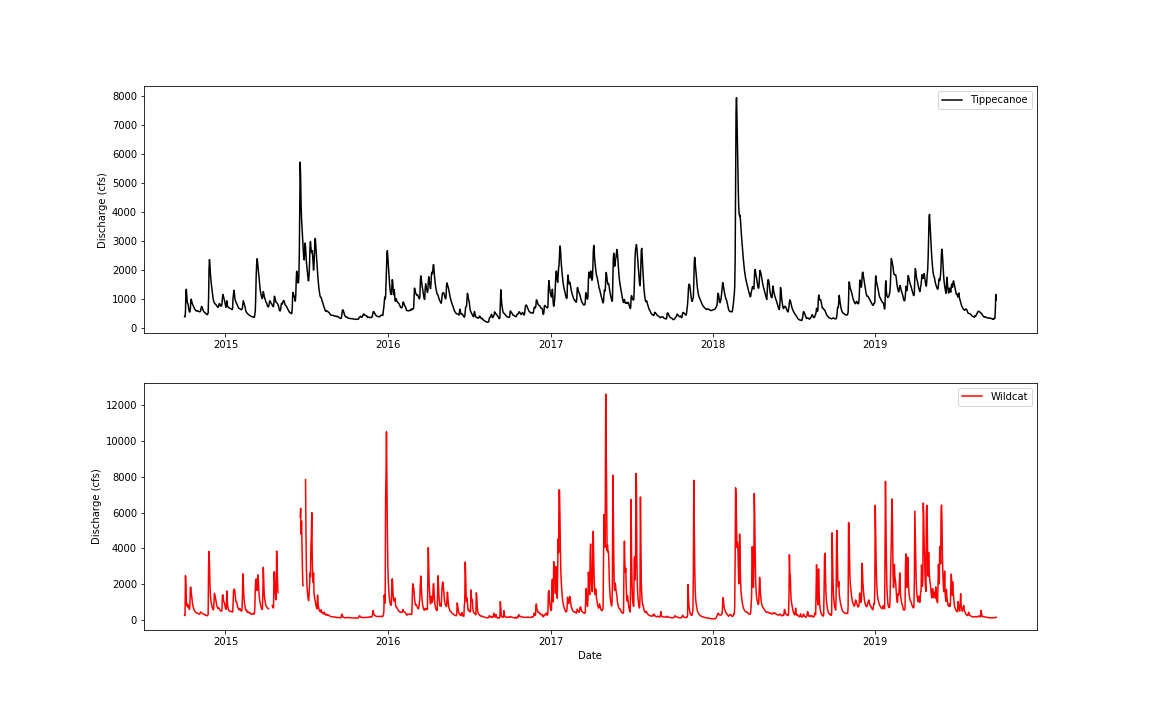
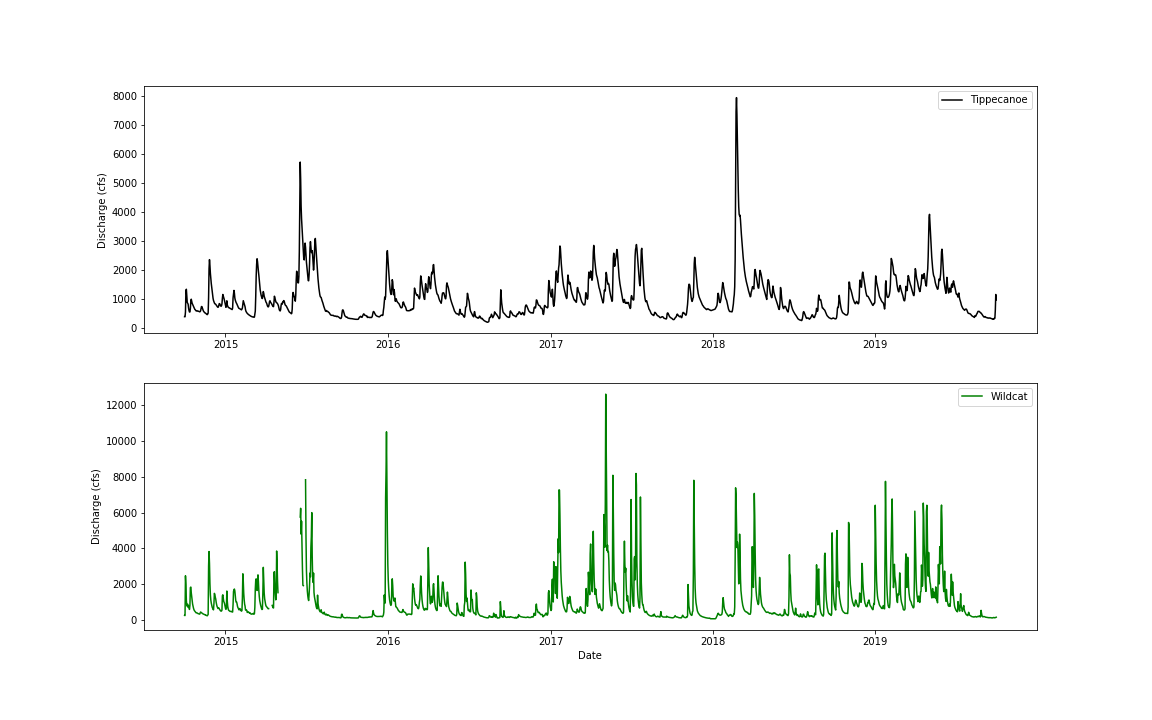
fixed exceedence

diff --git a/program_11.py b/program_11.py
@@ -142,7 +142,7 @@ if __name__ == '__main__':
     plt.ylabel('Discharge (cfs)')
     plt.legend(loc='upper right')
     plt.subplot(212)
-    plt.plot(Wildcat5Y.index,Wildcat5Y['Discharge'], 'red',label = 'Wildcat')
+    plt.plot(Wildcat5Y.index,Wildcat5Y['Discharge'], 'green',label = 'Wildcat')
     plt.xlabel('Date')
     plt.ylabel('Discharge (cfs)')
     plt.legend(loc='upper right') #adding legend
@@ -211,17 +211,38 @@ if __name__ == '__main__':
     #period of annual peak flow events
     peakWildcat = AnMet[AnMet['Station']=='Wildcat']
     peakTippe = AnMet[AnMet['Station'] == 'Tippe']
+    #drop unneeded columns or else the plot gets messy 
+    exceedence_tippe= peakTippe.drop(columns=['site_no', 'Mean Flow', 'Median Flow', 'Coeff Var', 'Skew', 'Tqmean', 'R-B Index', '7Q', '3xMedian'])
     #sort values for Tippe in descending order 
-    peakTippe_sort = peakTippe.sort_values('Peak Flow', ascending = False)
+    tippeFlow = exceedence_tippe.sort_values('Peak Flow', ascending = False)
+    #create structure to rank values
+    rank_tippe= stats.rankdata(tippeFlow['Peak Flow'], method='average') 
+    rank_tippe_2=rank_tippe[::-1]
+    exceedence_tippe=[(rank_tippe_2[i]/(len(tippeFlow)+1)) for i in range(len(tippeFlow))]
+    '''
+    ep_tippe=tippe_met.drop(columns=['site_no', 'Mean Flow', 'Median Flow', 'Coeff Var', 'Skew', 'Tqmean', 'R-B Index', '7Q', '3xMedian'])
+    tippe_flow=ep_tippe.sort_values('Peak Flow', ascending=False)
+    tippe_ranks1=stats.rankdata(tippe_flow['Peak Flow'], method='average')
+    tippe_ranks2=tippe_ranks1[::-1]
+    tippe_ep=[(tippe_ranks2[i]/(len(tippe_flow)+1)) for i in range(len(tippe_flow))]
+    '''
+    
     #assign rank to each value 
-    peakTippe_sort['Rank'] = np.arange(start = 1, stop = 51, step =1) 
+    #peakTippe_sort['Rank'] = np.arange(start = 1, stop = 51, step =1) 
     #calc exceedence 
-    peakTippe_sort['Exceedence'] = peakTippe_sort['Rank']/51
+    #peakTippe_sort['Exceedence'] = peakTippe_sort['Rank']/51
     #do the same for wildcat 
-    peakWildcat_sort = peakWildcat.sort_values('Peak Flow', ascending = False)
-    peakWildcat_sort['Rank'] = np.arange(start = 1, stop = 51, step =1) 
-    peakWildcat_sort['Exceedence'] = peakWildcat_sort['Rank']/51
-    fig = plt.figure(figsize=(12,10))
+    exceedence_wildcat= peakWildcat.drop(columns=['site_no', 'Mean Flow', 'Median Flow', 'Coeff Var', 'Skew', 'Tqmean', 'R-B Index', '7Q', '3xMedian'])
+    wildcatFlow = peakWildcat.sort_values('Peak Flow', ascending = False)
+    #peakWildcat_sort['Rank'] = np.arange(start = 1, stop = 51, step =1) 
+    #peakWildcat_sort['Exceedence'] = peakWildcat_sort['Rank']/51
+    #fig = plt.figure(figsize=(12,10))
+    
+    rank_wildcat=stats.rankdata(wildcatFlow['Peak Flow'], method='average') 
+    rank_wildcat_2=rank_wildcat[::-1]
+    exceedence_wildcat=[(rank_wildcat[i]/(len(wildcatFlow)+1)) for i in range(len(wildcatFlow))]
+    
+    '''
     #add exceednece values 
     plt.plot(peakTippe_sort['Exceedence'],
              peakTippe_sort['Peak Flow'], 'black', linestyle='None',marker='.', label = 'Tippecanoe') 
@@ -236,8 +257,20 @@ if __name__ == '__main__':
     ax.yaxis.grid(which='major',color='gray',linewidth=0.5,linestyle='--',alpha=0.5) 
     plt.savefig('exceedence_prob.png')
     plt.close()
-    
-    
+   '''
+   
+# Excendence Probability Plot 
+    fig = plt.figure(figsize=(16,10)) 
+    plt.plot(exceedence_tippe, peakTippe['Peak Flow'], label='Tippecanoe River', color='black')
+    plt.plot(exceedence_wildcat, peakWildcat['Peak Flow'], label='Wildcat River', color='green')
+    plt.xlabel("Exceedence Probability",fontsize=20)
+    plt.ylabel("Peak Discharge (CFS)",fontsize=20)
+    ax= plt.gca()
+    ax.set_xlim(1,0) #reverse x axis 
+    plt.tight_layout()
+    plt.legend(fontsize=20)
+    plt.savefig('ExceedenceProbability.png', dpi=96) #Save plot as PNG with 96 dpi   
+    plt.close()
     
     
     
